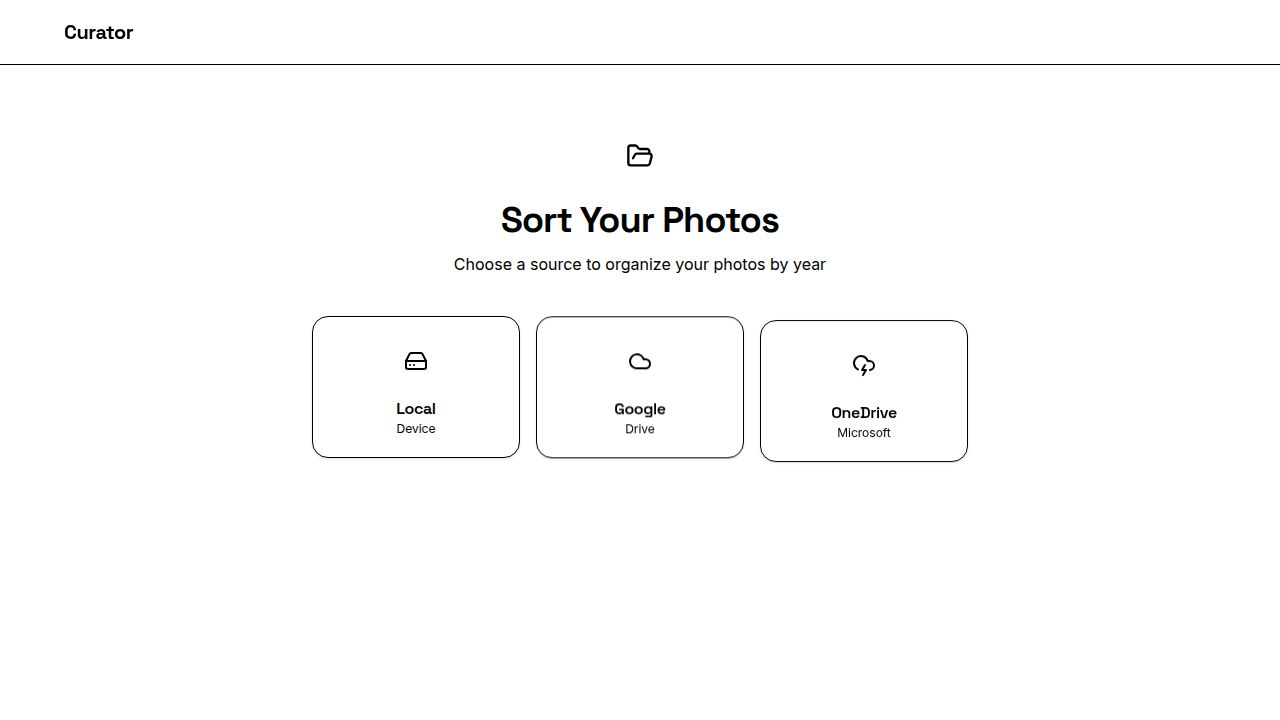
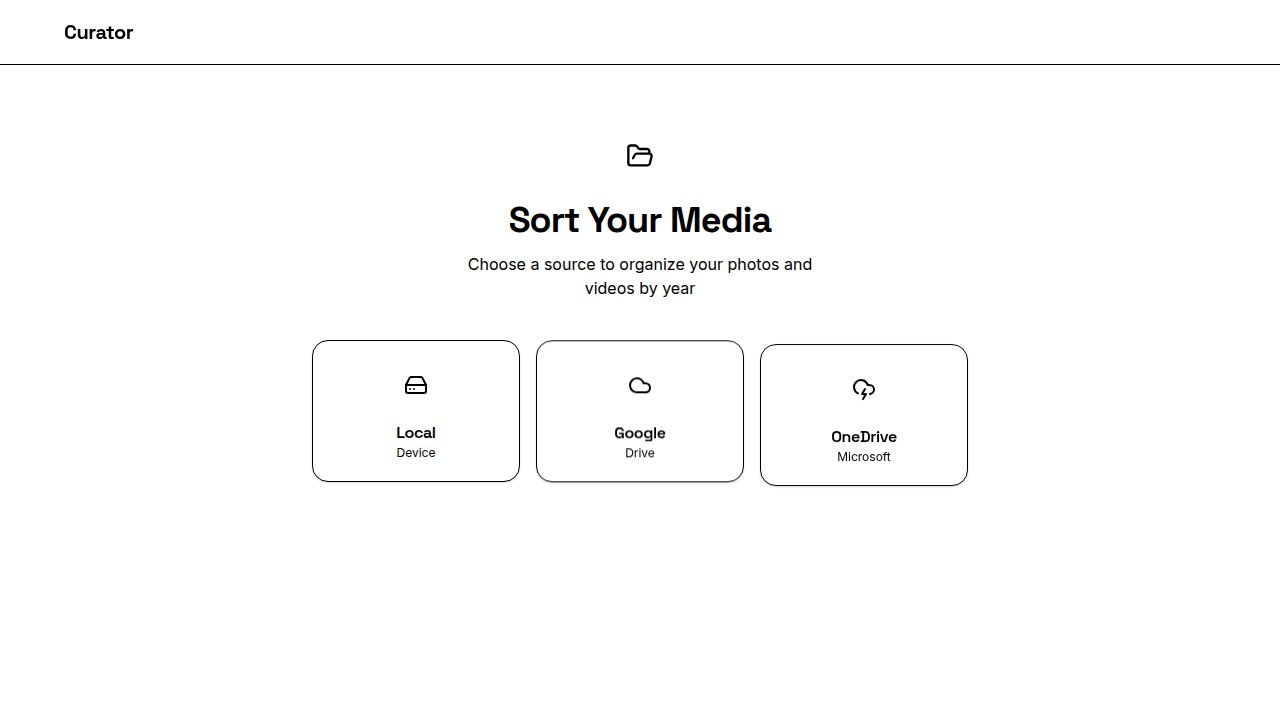
Add support for organizing and displaying videos alongside photos
Update file handling and UI components to recognize and display video files from local storage and cloud services, including a visual indicator for videos in the photo grid.

Replit-Commit-Author: Agent
Replit-Commit-Session-Id: 04a19a68-6168-47a9-8fe3-abebb29c6b7c
Replit-Commit-Checkpoint-Type: full_checkpoint
Replit-Commit-Event-Id: a7db2755-33e1-4988-8a03-9b4ad9bc89b4
Replit-Commit-Screenshot-Url: https://storage.googleapis.com/screenshot-production-us-central1/3ee6eb57-a22a-429d-93ed-dd9569d6757b/04a19a68-6168-47a9-8fe3-abebb29c6b7c/2k8yRAU
Replit-Helium-Checkpoint-Created: true

diff --git a/client/src/pages/home.tsx b/client/src/pages/home.tsx
@@ -120,12 +120,13 @@ export default function Home() {
   };
 
   const handleSelectCloudFolder = () => {
-    const isImageFile = (f: CloudFile): boolean => {
+    const isMediaFile = (f: CloudFile): boolean => {
       const mimeType = f.mimeType || '';
-      if (mimeType.startsWith('image/')) return true;
+      if (mimeType.startsWith('image/') || mimeType.startsWith('video/')) return true;
       const name = (f.name || '').toLowerCase();
       const imageExtensions = ['.jpg', '.jpeg', '.png', '.gif', '.webp', '.heic', '.heif', '.bmp', '.tiff', '.svg'];
-      return imageExtensions.some(ext => name.endsWith(ext));
+      const videoExtensions = ['.mp4', '.mov', '.avi', '.mkv', '.wmv', '.flv', '.webm', '.m4v', '.3gp', '.mpeg', '.mpg'];
+      return imageExtensions.some(ext => name.endsWith(ext)) || videoExtensions.some(ext => name.endsWith(ext));
     };
     const isFolderFile = (f: CloudFile): boolean => {
       const mimeType = f.mimeType || '';
@@ -133,20 +134,26 @@ export default function Home() {
              mimeType === 'application/vnd.folder' ||
              mimeType.includes('folder');
     };
-    const imageFiles = allCloudFiles.filter(f => !isFolderFile(f) && isImageFile(f));
-    setCloudFiles(imageFiles);
+    const mediaFiles = allCloudFiles.filter(f => !isFolderFile(f) && isMediaFile(f));
+    setCloudFiles(mediaFiles);
     
     // Convert to FileItem format for display with proxied thumbnails
-    const displayFiles: FileItem[] = imageFiles.map(f => ({
-      id: f.id,
-      url: source === 'gdrive' 
-        ? `/api/gdrive/thumbnail/${f.id}` 
-        : `/api/onedrive/thumbnail/${f.id}`,
-      name: f.name,
-      date: new Date(f.modifiedTime || f.createdTime || Date.now()),
-      type: 'image',
-      size: f.size ? formatBytes(f.size) : '0 B'
-    }));
+    const displayFiles: FileItem[] = mediaFiles.map(f => {
+      const mimeType = f.mimeType || '';
+      const isVideo = mimeType.startsWith('video/') || 
+        ['.mp4', '.mov', '.avi', '.mkv', '.wmv', '.flv', '.webm', '.m4v', '.3gp', '.mpeg', '.mpg']
+          .some(ext => (f.name || '').toLowerCase().endsWith(ext));
+      return {
+        id: f.id,
+        url: source === 'gdrive' 
+          ? `/api/gdrive/thumbnail/${f.id}` 
+          : `/api/onedrive/thumbnail/${f.id}`,
+        name: f.name,
+        date: new Date(f.modifiedTime || f.createdTime || Date.now()),
+        type: isVideo ? 'video' : 'image',
+        size: f.size ? formatBytes(f.size) : '0 B'
+      };
+    });
     setUnsortedFiles(displayFiles);
     setState('browsing');
   };
@@ -162,24 +169,24 @@ export default function Home() {
         const moved = result.moved || cloudFiles.length;
         const skipped = result.skipped || 0;
         toast({
-          title: "Photos organized!",
+          title: "Media organized!",
           description: skipped > 0 
-            ? `Moved ${moved} photos to year folders. ${skipped} already in correct folders.`
-            : `Successfully moved ${moved} photos into year folders in Google Drive.`,
+            ? `Moved ${moved} files to year folders. ${skipped} already in correct folders.`
+            : `Successfully moved ${moved} photos/videos into year folders in Google Drive.`,
         });
       } else if (source === 'onedrive' && cloudFiles.length > 0) {
         const result = await organizeOneDrivePhotos(cloudFiles, currentFolderId);
         const moved = result.moved || 0;
         const skipped = result.skipped || 0;
         toast({
-          title: "Photos organized!",
+          title: "Media organized!",
           description: skipped > 0 
-            ? `Moved ${moved} photos to year folders. ${skipped} already in correct folders.`
-            : `Successfully moved ${moved} photos into year folders in OneDrive.`,
+            ? `Moved ${moved} files to year folders. ${skipped} already in correct folders.`
+            : `Successfully moved ${moved} photos/videos into year folders in OneDrive.`,
         });
       } else {
         toast({
-          title: "Photos organized!",
+          title: "Media organized!",
           description: "Photos have been sorted by year (local preview only).",
         });
       }

diff --git a/client/src/components/FolderBrowser.tsx b/client/src/components/FolderBrowser.tsx
@@ -12,15 +12,14 @@ interface FolderBrowserProps {
   source: string;
 }
 
-const isImageFile = (file: CloudFile): boolean => {
-  // Check mimeType first (handle both string and undefined)
+const isMediaFile = (file: CloudFile): boolean => {
   const mimeType = file.mimeType || '';
-  if (mimeType.startsWith('image/')) return true;
+  if (mimeType.startsWith('image/') || mimeType.startsWith('video/')) return true;
   
-  // Fall back to extension check
   const name = (file.name || '').toLowerCase();
   const imageExtensions = ['.jpg', '.jpeg', '.png', '.gif', '.webp', '.heic', '.heif', '.bmp', '.tiff', '.svg'];
-  return imageExtensions.some(ext => name.endsWith(ext));
+  const videoExtensions = ['.mp4', '.mov', '.avi', '.mkv', '.wmv', '.flv', '.webm', '.m4v', '.3gp', '.mpeg', '.mpg'];
+  return imageExtensions.some(ext => name.endsWith(ext)) || videoExtensions.some(ext => name.endsWith(ext));
 };
 
 const isFolderFile = (file: CloudFile): boolean => {
@@ -40,7 +39,7 @@ export function FolderBrowser({
   source
 }: FolderBrowserProps) {
   const folders = files.filter(isFolderFile);
-  const images = files.filter(f => !isFolderFile(f) && isImageFile(f));
+  const mediaFiles = files.filter(f => !isFolderFile(f) && isMediaFile(f));
 
   return (
     <div className="w-full max-w-4xl mx-auto p-4 sm:p-6 pb-24 sm:pb-6">
@@ -74,16 +73,16 @@ export function FolderBrowser({
         <div>
           <h2 className="text-xl sm:text-2xl font-bold">Browse Folders</h2>
           <p className="text-muted-foreground text-xs sm:text-sm">
-            {folders.length} folders, {images.length} photos
+            {folders.length} folders, {mediaFiles.length} photos/videos
           </p>
         </div>
 
         <motion.button
-          whileHover={images.length > 0 ? { scale: 1.05 } : {}}
-          whileTap={images.length > 0 ? { scale: 0.95 } : {}}
-          onClick={images.length > 0 ? onSelectFolder : undefined}
-          disabled={images.length === 0}
-          style={images.length > 0 
+          whileHover={mediaFiles.length > 0 ? { scale: 1.05 } : {}}
+          whileTap={mediaFiles.length > 0 ? { scale: 0.95 } : {}}
+          onClick={mediaFiles.length > 0 ? onSelectFolder : undefined}
+          disabled={mediaFiles.length === 0}
+          style={mediaFiles.length > 0 
             ? { backgroundColor: '#3b82f6', color: '#ffffff' }
             : { backgroundColor: '#e5e7eb', color: '#6b7280' }
           }
@@ -91,14 +90,14 @@ export function FolderBrowser({
           data-testid="button-select-folder"
         >
           <Image className="w-5 h-5" />
-          {images.length > 0 
-            ? `Select This Folder (${images.length} photos)` 
-            : 'No photos in this folder'}
+          {mediaFiles.length > 0 
+            ? `Select This Folder (${mediaFiles.length} files)` 
+            : 'No media in this folder'}
         </motion.button>
       </div>
 
-      {/* Mobile sticky footer button - always visible when there are images */}
-      {images.length > 0 && (
+      {/* Mobile sticky footer button - always visible when there are media files */}
+      {mediaFiles.length > 0 && (
         <>
           <div className="fixed bottom-0 left-0 right-0 p-4 bg-white border-t border-gray-200 shadow-2xl sm:hidden" style={{ zIndex: 9999 }}>
             <button
@@ -108,7 +107,7 @@ export function FolderBrowser({
               data-testid="button-select-folder-mobile"
             >
               <Image className="w-5 h-5" style={{ color: '#ffffff' }} />
-              <span style={{ color: '#ffffff' }}>Select This Folder ({images.length} photos)</span>
+              <span style={{ color: '#ffffff' }}>Select This Folder ({mediaFiles.length} files)</span>
             </button>
           </div>
           {/* Spacer to prevent content from being hidden behind sticky button */}

diff --git a/server/cloud-storage.ts b/server/cloud-storage.ts
@@ -110,10 +110,10 @@ export async function listGoogleDrivePhotos(folderId: string = 'root'): Promise<
   const allFiles: CloudFile[] = [];
   let pageToken: string | undefined = undefined;
   
-  // Paginate through all results
+  // Paginate through all results - include both images and videos
   do {
     const response: any = await drive.files.list({
-      q: `'${folderId}' in parents and (mimeType contains 'image/' or mimeType = 'application/vnd.google-apps.folder') and trashed = false`,
+      q: `'${folderId}' in parents and (mimeType contains 'image/' or mimeType contains 'video/' or mimeType = 'application/vnd.google-apps.folder') and trashed = false`,
       fields: 'nextPageToken, files(id, name, mimeType, createdTime, modifiedTime, size, thumbnailLink, webViewLink)',
       pageSize: 1000,
       pageToken: pageToken,
@@ -212,15 +212,17 @@ export async function listOneDrivePhotos(folderId: string = 'root'): Promise<Clo
   }
 
   const imageExtensions = ['.jpg', '.jpeg', '.png', '.gif', '.bmp', '.webp', '.heic', '.heif', '.tiff', '.tif'];
+  const videoExtensions = ['.mp4', '.mov', '.avi', '.mkv', '.wmv', '.flv', '.webm', '.m4v', '.3gp', '.mpeg', '.mpg'];
   
-  const isImage = (item: any): boolean => {
-    if (item.file?.mimeType?.startsWith('image/')) return true;
+  const isMediaFile = (item: any): boolean => {
+    const mimeType = item.file?.mimeType || '';
+    if (mimeType.startsWith('image/') || mimeType.startsWith('video/')) return true;
     const name = item.name?.toLowerCase() || '';
-    return imageExtensions.some(ext => name.endsWith(ext));
+    return imageExtensions.some(ext => name.endsWith(ext)) || videoExtensions.some(ext => name.endsWith(ext));
   };
 
   return allItems
-    .filter((item: any) => isImage(item) || item.folder)
+    .filter((item: any) => isMediaFile(item) || item.folder)
     .map((item: any) => {
       const name = item.name?.toLowerCase() || '';
       let mimeType = item.file?.mimeType;
@@ -231,6 +233,12 @@ export async function listOneDrivePhotos(folderId: string = 'root'): Promise<Clo
         else if (name.endsWith('.gif')) mimeType = 'image/gif';
         else if (name.endsWith('.webp')) mimeType = 'image/webp';
         else if (name.endsWith('.heic') || name.endsWith('.heif')) mimeType = 'image/heic';
+        else if (name.endsWith('.mp4')) mimeType = 'video/mp4';
+        else if (name.endsWith('.mov')) mimeType = 'video/quicktime';
+        else if (name.endsWith('.avi')) mimeType = 'video/x-msvideo';
+        else if (name.endsWith('.mkv')) mimeType = 'video/x-matroska';
+        else if (name.endsWith('.webm')) mimeType = 'video/webm';
+        else if (name.endsWith('.m4v')) mimeType = 'video/x-m4v';
         else mimeType = 'image/jpeg';
       }
       

diff --git a/client/src/components/FilePicker.tsx b/client/src/components/FilePicker.tsx
@@ -36,17 +36,29 @@ export function FilePicker({ onSelectSource }: FilePickerProps) {
     if (files && files.length > 0) {
       setIsReading(true);
       
-      // Convert FileList to our FileItem format
+      const videoExtensions = ['.mp4', '.mov', '.avi', '.mkv', '.wmv', '.flv', '.webm', '.m4v', '.3gp', '.mpeg', '.mpg'];
+      
+      const isMediaFile = (file: File): boolean => {
+        if (file.type.startsWith('image/') || file.type.startsWith('video/')) return true;
+        const name = file.name.toLowerCase();
+        return videoExtensions.some(ext => name.endsWith(ext));
+      };
+      
+      // Convert FileList to our FileItem format (photos and videos)
       const fileItems: FileItem[] = Array.from(files)
-        .filter(file => file.type.startsWith('image/'))
-        .map((file, index) => ({
-          id: `local-${index}-${Date.now()}`,
-          url: URL.createObjectURL(file),
-          name: file.name,
-          date: new Date(file.lastModified),
-          type: 'image',
-          size: formatBytes(file.size)
-        }));
+        .filter(isMediaFile)
+        .map((file, index) => {
+          const isVideo = file.type.startsWith('video/') || 
+            videoExtensions.some(ext => file.name.toLowerCase().endsWith(ext));
+          return {
+            id: `local-${index}-${Date.now()}`,
+            url: URL.createObjectURL(file),
+            name: file.name,
+            date: new Date(file.lastModified),
+            type: isVideo ? 'video' : 'image',
+            size: formatBytes(file.size)
+          };
+        });
 
       // Simulate a small delay for UX
       setTimeout(() => {
@@ -82,10 +94,10 @@ export function FilePicker({ onSelectSource }: FilePickerProps) {
           <FolderOpen className="w-6 h-6 sm:w-7 sm:h-7 text-primary" />
         </div>
         <h1 className="text-2xl sm:text-3xl md:text-4xl font-bold text-primary tracking-tight">
-          Sort Your Photos
+          Sort Your Media
         </h1>
         <p className="text-muted-foreground text-sm sm:text-base max-w-sm mx-auto">
-          Choose a source to organize your photos by year
+          Choose a source to organize your photos and videos by year
         </p>
       </motion.div>
 

diff --git a/client/src/components/PhotoGrid.tsx b/client/src/components/PhotoGrid.tsx
@@ -1,7 +1,7 @@
 
 import { motion, AnimatePresence } from "framer-motion";
 import { FileItem } from "@/lib/mockData";
-import { LayoutGrid, SortAsc, Folder, FolderOpen, Check, Home, ChevronRight } from "lucide-react";
+import { LayoutGrid, SortAsc, Folder, FolderOpen, Check, Home, ChevronRight, Play } from "lucide-react";
 import { format } from "date-fns";
 
 interface SubfolderInfo {
@@ -86,9 +86,9 @@ export function PhotoGrid({ files, onSort, isSorting, hasSortedFiles, onViewFold
           <div className="w-16 h-16 bg-green-100 rounded-full flex items-center justify-center mb-4">
             <Check className="w-8 h-8 text-green-600" />
           </div>
-          <h3 className="text-xl font-semibold mb-2">All photos sorted!</h3>
+          <h3 className="text-xl font-semibold mb-2">All media sorted!</h3>
           <p className="text-muted-foreground max-w-md mb-6">
-            Your photos have been moved to their respective year folders.
+            Your photos and videos have been moved to their respective year folders.
           </p>
           
           <button 
@@ -160,6 +160,14 @@ export function PhotoGrid({ files, onSort, isSorting, hasSortedFiles, onViewFold
                   <p className="text-white text-xs font-medium truncate">{file.name}</p>
                   <p className="text-white/70 text-[10px]">{format(file.date, "MMM d, yyyy")}</p>
                 </div>
+                
+                {file.type === 'video' && (
+                  <div className="absolute inset-0 flex items-center justify-center pointer-events-none">
+                    <div className="w-12 h-12 bg-black/50 backdrop-blur-sm rounded-full flex items-center justify-center">
+                      <Play className="w-6 h-6 text-white fill-white ml-1" />
+                    </div>
+                  </div>
+                )}
                 
                 <div className="absolute top-3 right-3 p-1.5 bg-black/20 backdrop-blur-md rounded-full opacity-0 group-hover:opacity-100 transition-opacity delay-75">
                   <Folder className="w-3 h-3 text-white" />

diff --git a/client/src/lib/mockData.ts b/client/src/lib/mockData.ts
@@ -11,7 +11,7 @@ export interface FileItem {
   url: string;
   name: string;
   date: Date;
-  type: 'image';
+  type: 'image' | 'video';
   size: string;
 }
 
